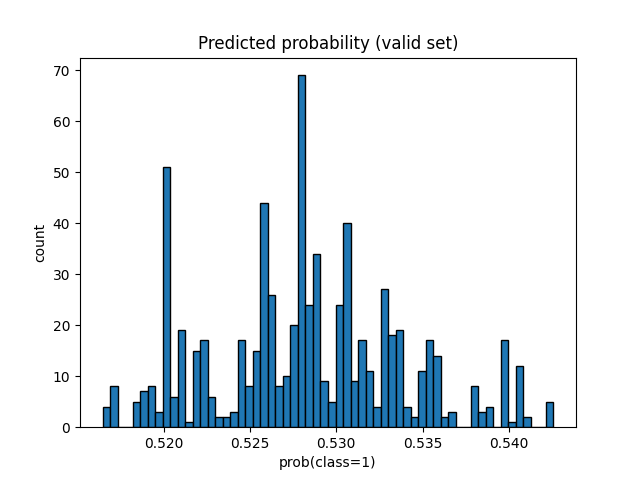
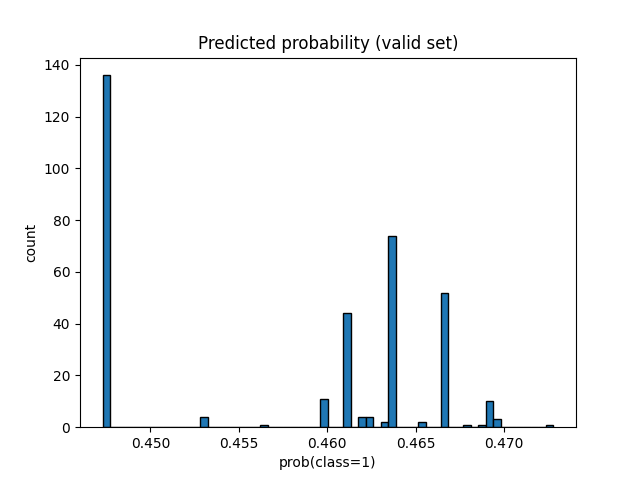
change lightgbm to multiclass

diff --git a/lightGBM.py b/lightGBM.py
@@ -1,10 +1,11 @@
 import yfinance as yf, pandas as pd, numpy as np, lightgbm as lgb, ta
-from sklearn.metrics import classification_report, roc_auc_score
+from sklearn.metrics import classification_report, roc_auc_score, roc_curve
 from sklearn.model_selection import train_test_split
 from lightgbm import early_stopping, log_evaluation 
+from statsmodels.tsa.statespace.sarimax import SARIMAX # ARIMA 
 
 # ---------------- 1. 下載資料 ---------------- #
-ticker, start_date = "BTC-USD", "2017-01-01"
+ticker, start_date = "BTC-USD", "2015-01-01"
 df = yf.download(ticker, start=start_date, auto_adjust=True).droplevel("Ticker", axis=1)
 df = df[["Open","High","Low","Close","Volume"]].dropna()
 
@@ -44,19 +45,47 @@ last_halving = halving_dates[last_halving]
 cycle_day = (df.index - last_halving).days
 df["halving_phase"]   = cycle_day / 1458
 
+df["ARIMA_pred"]  = np.nan
+df["ARIMA_resid"] = np.nan
+
+# walk forcasting：用前 365 天資料去預測未來 1 天收盤價
+lookback = 365
+order    = (5, 1, 0)        # 你可用 AIC / BIC 先試好 p,d,q
+
+for i in range(lookback, len(df)):
+    train_series = df["Close"].iloc[i - lookback: i]          # 過去 lookback 天做為訓練
+    train_series = train_series.asfreq('B')
+    model_arima  = SARIMAX(train_series, order=order,
+                            freq='B',
+                           enforce_stationarity=False,
+                           enforce_invertibility=False)
+    res   = model_arima.fit(disp=False)
+    pred  = res.forecast(1).iloc[0]                           # 下一天的預測收盤價
+    df.at[df.index[i], "ARIMA_pred"]  = pred
+    df.at[df.index[i], "ARIMA_resid"] = df["Close"].iloc[i] - pred
+
 # ---------------- 3. 分位標籤 (Top/Bottom 30%) ---------------- #
-N = 30
-ret_col = f"future_ret_{N}d"
-df[ret_col] = df["Close"].shift(-N).pct_change(N, fill_method=None)
-q25, q75 = df[ret_col].quantile([0.25, 0.75])
-df["y"] = np.where(df[ret_col] >= q75, 1,
-           np.where(df[ret_col] <= q25, 0, np.nan))
+pred_horizon = 5                                   # 預測 5 日後
+df["fwd_ret"] = df["Close"].shift(-pred_horizon) / df["Close"] - 1
+
+upper_th = 0.05                                    # > +5 % → 做多
+lower_th = -0.05                                   # < –5 % → 放空
+
+# 0 = 空、1 = HOLD、2 = 多
+conditions = [df["fwd_ret"] < lower_th,
+              (df["fwd_ret"] >= lower_th) & (df["fwd_ret"] <= upper_th),
+              df["fwd_ret"] > upper_th]
+choices    = [0, 1, 2]
+
+df["y"] = np.select(conditions, choices)
+df = df.dropna()                                   # 清掉尾端 NaN
 
 feature_cols = ["MA7","MA30","MA60","MA180","MA_dev",
                 "Ret_1d","Ret_7d","Ret_30d","Ret_60d",
                 "RSI14","Stoch_%K","Stoch_%D","Vol_z",
                 "DXY_ret_20d","DXY_ret_60d","DXY_z",
-                "SP500_ret_10d","SP500_z","halving_phase"]
+                "SP500_ret_10d","SP500_z","halving_phase",
+                "ARIMA_pred","ARIMA_resid"]
 
 df = df.dropna(subset=feature_cols + ["y"])
 X, y = df[feature_cols], df["y"].astype(int)
@@ -67,11 +96,13 @@ X_train, X_valid, y_train, y_valid = train_test_split(
 
 # ---------------- 5. LightGBM ---------------- #
 params = dict(
-    objective          = "binary",
-    metric             = "auc",
+    objective          = "multiclass",
+    num_class          = 3,              # 0 = 空、1 = HOLD、2 = 多
+    metric             = ["multi_logloss", "multi_error"],
     learning_rate      = 0.01,
-    num_leaves         = 24,
-    feature_fraction   = 0.3,
+    num_leaves         = 64,
+    max_depth          = 3,
+    feature_fraction   = 0.7,
     bagging_fraction   = 0.7,
     bagging_freq       = 5,
     min_data_in_leaf   = 40,
@@ -79,19 +110,13 @@ params = dict(
     verbose            = -1           # 不加 is_unbalance，因類別已近 1:1
 )
 
-train_set = lgb.Dataset(X_train, y_train)
-valid_set = lgb.Dataset(X_valid, y_valid)
+model = lgb.LGBMClassifier(**params)
 
-model = lgb.train(
-    params,
-    train_set,
-    num_boost_round=4000,
-    valid_names=["train", "valid"],
-    valid_sets=[train_set, valid_set],
-    callbacks=[
-        early_stopping(stopping_rounds=150),   # 
-        log_evaluation(period=100)             # == verbose_eval=100
-    ],
+model.fit(
+    X_train, y_train,
+    eval_set=[(X_valid, y_valid)],
+    eval_metric="multi_logloss",
+    callbacks=[lgb.early_stopping(150), lgb.log_evaluation(50)]
 )
 
 print("Best iter :", model.best_iteration)
@@ -99,29 +124,24 @@ print("Train AUC :", model.best_score["train"]["auc"])
 print("Valid AUC :", model.best_score["valid"]["auc"])
 
 # ---------------- 6. 測試集評估 ---------------- #
-y_prob = model.predict(X_valid)
-threshold = 0.3
-y_pred = (y_prob > threshold).astype(int)       
-print(classification_report(y_valid, y_pred, digits=4))
+# 機率矩陣 shape = (N, 3)
+proba = model.predict_proba(X_valid)              
 
-imp = pd.Series(model.feature_importance(), index=feature_cols).sort_values(ascending=False)
-print("\nTop 10 feature importance:")
-print(imp.head(10))
+# 直接取 argmax ⇒ 最可能的類別
+y_pred = proba.argmax(axis=1)
+
+print(classification_report(y_valid, y_pred, digits=4))
+print(confusion_matrix(y_valid, y_pred))
 
 # ---------------- 7. 回測：連續倉位 ---------------- #
-prob_all = model.predict(X)
-weight   = ((prob_all - 0.35).clip(0, 0.25)/0.25) * 1   
-position = pd.Series(weight, index=df.index).shift(1).rolling(N).max()
+position = pd.Series(index=df.index, dtype=float)
+position.loc[val_index] = np.select(
+    [y_pred == 0, y_pred == 1, y_pred == 2],
+    [-1, 0, 1]
+).astype(float)
+position = position.shift(1).fillna(0)           # 隔日開盤才執行
 
-daily_ret = df["Close"].pct_change()
-strategy_ret = position * daily_ret
-
-ann_ret = (1+strategy_ret).prod()**(252/len(strategy_ret))-1
-sharpe  = strategy_ret.mean()/strategy_ret.std()*np.sqrt(252)
-max_dd  = (equity:=(1+strategy_ret).cumprod()).div(equity.cummax()).min()
-print(f"\n=== Strategy Performance === \nAnn [%]:{ann_ret:.2%}  Sharpe:{sharpe:.2f}  MaxDD:{max_dd:.2%}")
-
-# compare with buy & hold
+# compare with buy & hold performance
 daily_ret = df["Close"].pct_change()
 
 equity = (1 + daily_ret).cumprod()
@@ -135,7 +155,7 @@ print(f"Ann [%]:{ann_ret:.2%}  Sharpe:{sharpe:.2f}  MaxDD:{max_dd:.2%}")
 
 # ---------------- 8. 機率分佈圖 ---------------- #
 import matplotlib.pyplot as plt
-plt.hist(y_prob, bins=60, edgecolor="k")
+plt.hist(y_valid_proba, bins=60, edgecolor="k")
 plt.title("Predicted probability (valid set)")
 plt.xlabel("prob(class=1)"); plt.ylabel("count")
 plt.savefig("prob_hist.png")
